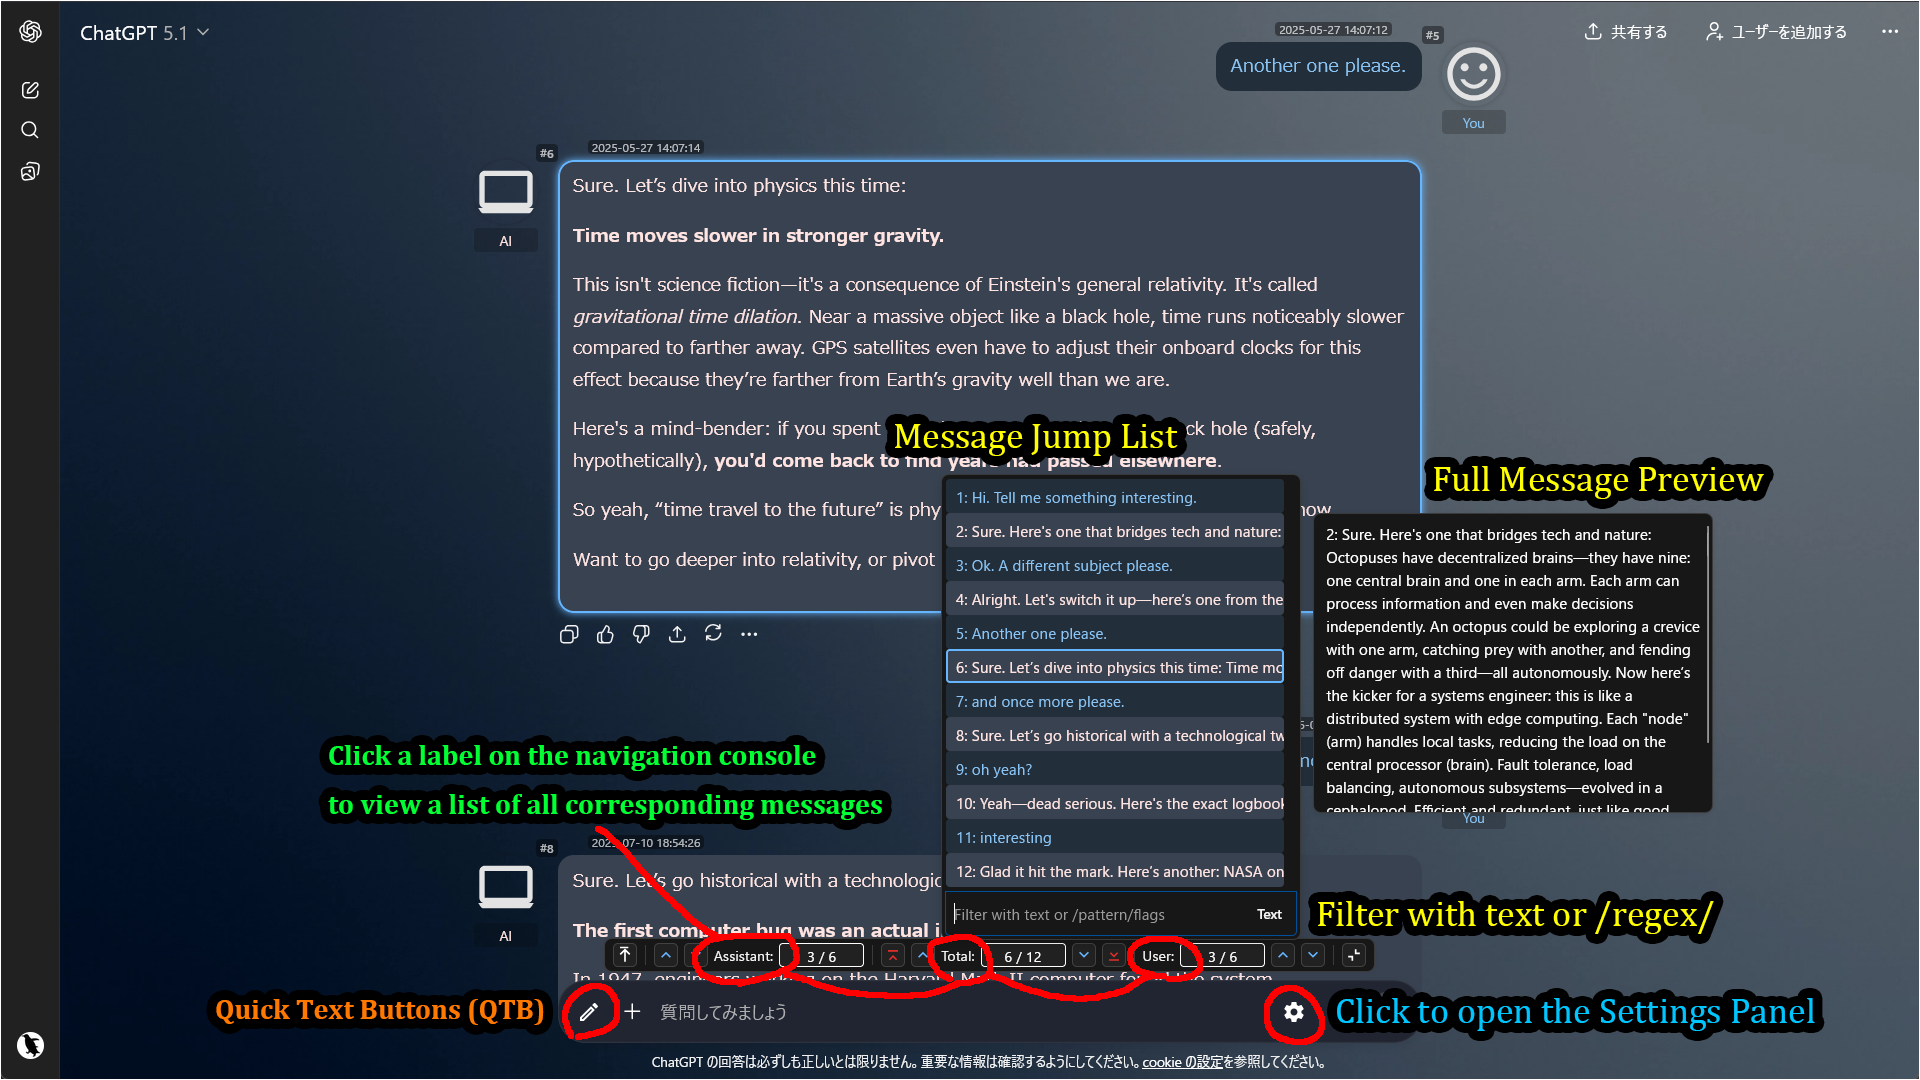
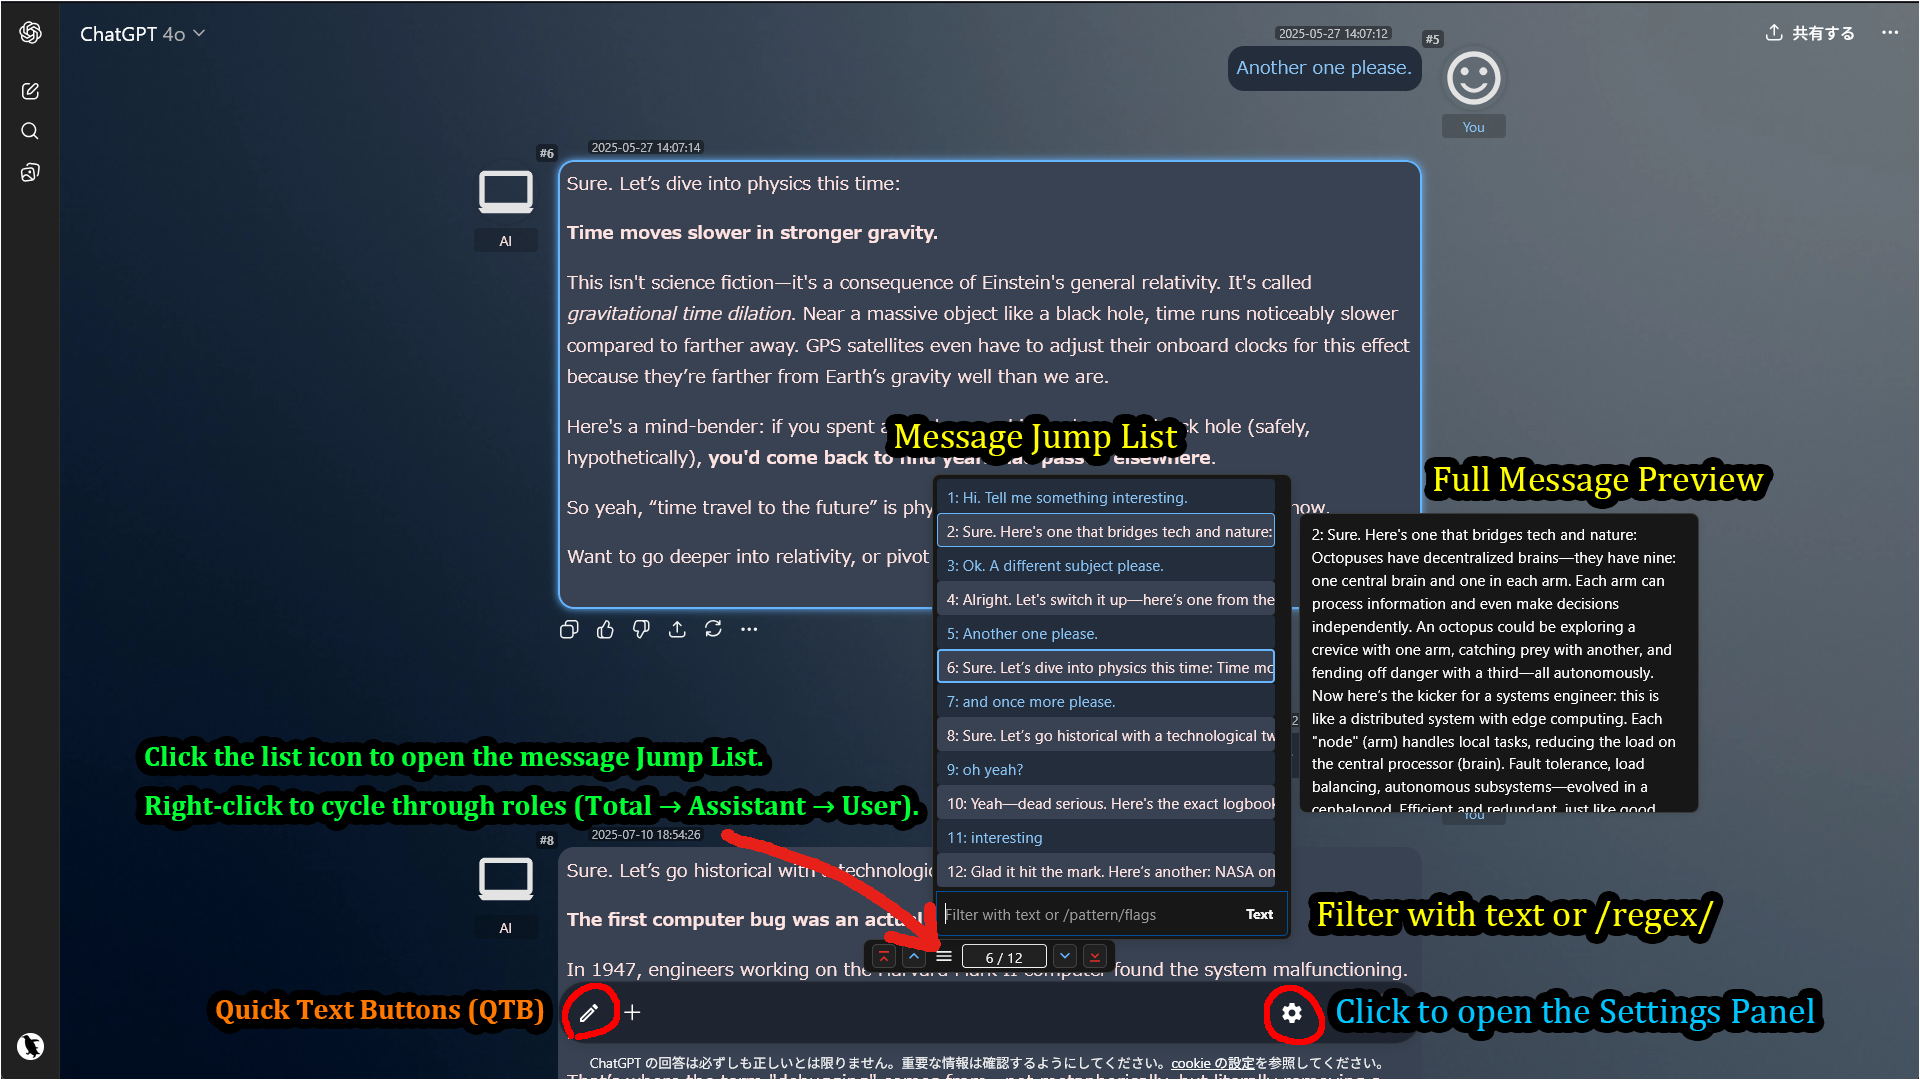
docs: update info for [AIUXC] v1.0.0-b329

diff --git a/docs/AI-UX-Customizer/README.md b/docs/AI-UX-Customizer/README.md
@@ -32,7 +32,7 @@ It also includes convenient UI enhancements such as **message collapsing**, **a 
 - **Advanced Navigation & Readability**
   - **[ChatGPT only] Message Timestamps**: Displays the creation time for each message. It fetches historical timestamps from the API and records new ones in real-time.  
     > (This is not available for Gemini as it's technically difficult to retrieve timestamps.)
-  - **Integrated Navigation Console**: A compact UI above the input field with message counters and quick navigation buttons.
+  - **Integrated Navigation Console**: A compact UI with message counters and quick navigation buttons. It can be positioned **floating above the input field** or **embedded in the header**.
   - **Message Jump List with Search**: Instantly jump to any message in the conversation from a list. You can filter messages by plain text or regular expressions.
   - **Per-Message Navigation**: Adds buttons to each message to jump to the next/previous message by the same speaker (user/assistant) or scroll to the top of the current message.
   - **Collapsible Messages**: Adds a button to collapse long messages, and includes a "Bulk Collapse/Expand" button in the navigation console.
@@ -83,17 +83,38 @@ It also includes convenient UI enhancements such as **message collapsing**, **a 
 
 **Note:** The pencil icon in the input area belongs to [**Quick Text Buttons (QTB)**](../Quick-Text-Buttons/README.md), a separate userscript. It allows you to insert predefined text or prompts with a single click. Using `QTB` alongside `AI-UX-Customizer` provides a highly efficient chat experience.
 
-### 9. Differences between the navigation consoles of ChatGPT and Gemini
+### 9. Navigation Console Modes & Platform Differences
 
-##### ChatGPT
-  - **[Firefox only]** The left end button (visible only on Firefox) is the "Run layout scan and rescan DOM" function.  
-  This is primarily used to mitigate a Firefox-specific bug where the scroll position jumps when images or messages load late. Use this button if you experience that issue, or if message counts appear incorrect.  
-![Navigation Console on ChatGPT](./images/navi_console_chatgpt.webp)
+The Navigation Console functionality changes when you hold the **[Shift]** key.  
+(You can also Right-Click the center counter to toggle "Shift Mode" permanently.)
 
-##### Gemini
-  - The left end button is the "Load full chat history (Auto scroll)" function  
-  This button is designed to allow you to manually auto-scroll specific chats while normally disabling the `Load full history on chat load` function.  
-![Navigation Console on Gemini](./images/navi_console_gemini.webp)
+#### Normal Mode vs. Shift Mode
+
+| Mode | ChatGPT | Gemini |
+| :--- | :--- | :--- |
+| **Normal**<br>(Default) | ![ChatGPT Normal](./images/navi_console_chatgpt_normal.webp) | ![Gemini Normal](./images/navi_console_gemini_normal.webp) |
+| **Shift**<br>(Hold Shift) | ![ChatGPT Shift](./images/navi_console_chatgpt_shift.webp) | ![Gemini Shift](./images/navi_console_gemini_shift.webp) |
+
+- **Normal Mode**: Provides standard navigation buttons (Top, Previous, Next, Bottom).
+- **Shift Mode**: Switches to advanced utility buttons.
+  - **Right Button**: Becomes **"Bulk Collapse/Expand"** button.
+  - **Left Button**: Changes to a platform-specific function (see below).
+
+#### Platform-Specific Functions (Left Button in Shift Mode)
+
+- **ChatGPT**:
+  - **[Firefox only] Layout Scan**: Runs a layout scan to fix scroll position jumps caused by late-loading images. Use this if scrolling feels unstable.
+- **Gemini**:
+  - **Load Full History**: Triggers an auto-scroll sequence to load the entire chat history. Useful for searching or exporting long conversations.
+
+### 10. Hybrid Positioning (Header Mode)
+
+By changing the **Console Position** to `header` in the Settings Panel, the Navigation Console acts as part of the page's top header toolbar.  
+This keeps the input area clean and maximizes the chat display area.
+
+![Header Mode](./images/navi_console_header_mode.webp)
+
+**Note:** If the window width is narrow (e.g., on smaller screens) or specific UI panels are active, the console will automatically fall back to the `Input Top` position to prevent layout overlaps.
 
 ---
 

diff --git a/docs/AI-UX-Customizer/manual_json.md b/docs/AI-UX-Customizer/manual_json.md
@@ -35,7 +35,7 @@ The following is a sample to illustrate the JSON structure. **Ready-to-use sampl
         "auto_collapse_user_message": { "enabled": false },
         "sequential_nav_buttons": { "enabled": true },
         "scroll_to_top_button": { "enabled": true },
-        "fixed_nav_console": { "enabled": true },
+        "fixed_nav_console": { "enabled": true, "position": "input_top" },
         "load_full_history_on_chat_load": { "enabled": true },
         "timestamp": { "enabled": true }
       },
@@ -174,7 +174,7 @@ Configure ON/OFF and thresholds for convenient UI improvement features.
 | `collapsible_button` | Displays a button to collapse messages at the top of each message bubble.  | `{ "enabled": true }` | `true`/`false`<br>Displays on the top-left for assistant and top-right for user.<br>Note: For Gemini, user bubbles have a standard collapse button, so this script does not process user bubbles for Gemini.<br>When this feature is enabled, a button to toggle the collapse state of all messages is displayed to the right of the message input field.  |
 | `sequential_nav_buttons` | Displays buttons next to each message bubble to jump to the next/previous message from the same author (user or assistant).  | `{ "enabled": true }` | `true`/`false`<br>Displays on the top-left for assistant and top-right for user.  |
 | `scroll_to_top_button` | Displays a button to scroll to the top of a message (or turn) at the bottom of each message bubble.  | `{ "enabled": true }` | `true`/`false`<br>Displays on the bottom-left for assistant and bottom-right for user.  |
-| `fixed_nav_console` | Displays an integrated navigation console at the top of the message input field.  | `{ "enabled": true }` | `true`/`false`<br>Displays a console bar consolidating navigation-related features for efficient message movement.  |
+| `fixed_nav_console` | Displays an integrated navigation console.  | `{ "enabled": true, "position": "input_top" }` | `true`/`false`<br>Displays a console bar consolidating navigation-related features for efficient message movement.<br>Accepted values for `position`: `"input_top"` (floating above input) or `"header"` (embedded in top bar). Default is `"input_top"`.  |
 | `load_full_history_on_chat_load` | `ChatGPT` (Firefox only)<br>Enables "layout scan and rescan DOM" on chat load.<br>`Gemini`<br>Enables auto-load full chat history on chat load.  | `{ "enabled": true }` | `true`/`false`<br>`ChatGPT`<br>Automatically scans the chat layout when opening a chat (Firefox only. See notes below.).<br>`Gemini`<br>Automatically loads the entire chat history when opening a chat.  |
 | `timestamp` | `ChatGPT` **[ChatGPT only]**<br>Displays the creation time for each message. | `{ "enabled": true }` | `true`/`false`<br>`ChatGPT` (ChatGPT) only.<br>This feature is not available for Gemini as it is technically difficult to retrieve timestamps. |
 

diff --git a/docs/AI-UX-Customizer/settings.md b/docs/AI-UX-Customizer/settings.md
@@ -36,6 +36,7 @@ You can access the Settings Panel by clicking the **Settings button** (gear icon
 | **Sequential nav buttons** | Adds buttons to each message to jump to the next/previous message by the same speaker (user/assistant). |
 | **Scroll to top button** | Adds a button to each message to scroll to the top of that message. |
 | **Navigation console** | Displays an operation panel above the text input field for quick navigation between messages. |
+| **Console Position** | Choose where to display the navigation console.<br>**Input Top**: Floating above the input area (Default).<br>**Header**: Embedded in the top toolbar. |
 
 ### 3. Theme Settings Screen Items
 
